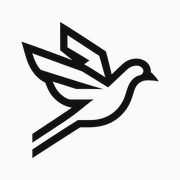
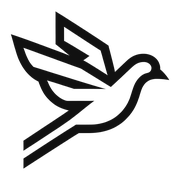
fix(seo): 品牌统一为 PigeonOJ 并补全多尺寸站点图标
- 站点标题/描述/OG/Twitter/JSON-LD/manifest 统一为 PigeonOJ，ARTOJ 保留为 alternateName
- favicon.ico 补 16/32/48/64/128/256 多帧，PNG 覆盖 16~512 多尺寸
- apple-touch-icon 由高清源重新生成

Changed region(s): [[0.0556, 0.0556, 0.9444, 0.9444], [0.4167, 0.4444, 0.5, 0.4722]]

diff --git a/src/frontend-next/index.html b/src/frontend-next/index.html
@@ -3,28 +3,35 @@
   <head>
     <meta charset="UTF-8" />
     <meta name="viewport" content="width=device-width, initial-scale=1.0" />
-    <title>ARTOJ · 在线编程与竞赛平台</title>
+    <title>PigeonOJ · 在线编程与竞赛平台</title>
     <meta
       name="description"
-      content="ARTOJ（PigeonOJ）是融合传统 OJ 与 AI 辅助的在线编程学习、训练与竞赛平台，提供题库、题单、ACM/IOI 比赛、团队协作与代码广场。"
+      content="PigeonOJ 是融合传统 OJ 与 AI 辅助的在线编程学习、训练与竞赛平台，提供题库、题单、ACM/IOI 比赛、团队协作与代码广场。"
     />
     <meta
       name="keywords"
-      content="ARTOJ,PigeonOJ,在线评测,Online Judge,OJ,编程竞赛,算法训练,题解,代码广场,C++,Python,Java"
+      content="PigeonOJ,ARTOJ,在线评测,Online Judge,OJ,编程竞赛,算法训练,题解,代码广场,C++,Python,Java"
     />
-    <meta name="author" content="ARTOJ" />
+    <meta name="author" content="PigeonOJ" />
     <meta name="robots" content="index,follow,max-image-preview:large" />
     <meta name="theme-color" content="#d9480f" />
     <link rel="canonical" href="https://www.youtro.top/" />
 
-    <link rel="icon" href="/favicon.ico" sizes="any" />
-    <link rel="icon" type="image/png" sizes="128x128" href="/brand/favicon.png" />
+    <link rel="icon" href="/favicon.ico" sizes="16x16 32x32 48x48 64x64" />
+    <link rel="icon" type="image/png" sizes="16x16" href="/brand/favicon-16.png" />
+    <link rel="icon" type="image/png" sizes="32x32" href="/brand/favicon-32.png" />
+    <link rel="icon" type="image/png" sizes="48x48" href="/brand/favicon-48.png" />
+    <link rel="icon" type="image/png" sizes="96x96" href="/brand/favicon-96.png" />
+    <link rel="icon" type="image/png" sizes="128x128" href="/brand/favicon-128.png" />
+    <link rel="icon" type="image/png" sizes="192x192" href="/brand/favicon-192.png" />
+    <link rel="icon" type="image/png" sizes="256x256" href="/brand/favicon-256.png" />
+    <link rel="icon" type="image/png" sizes="512x512" href="/brand/favicon-512.png" />
     <link rel="apple-touch-icon" sizes="180x180" href="/brand/apple-touch-icon.png" />
     <link rel="manifest" href="/site.webmanifest" />
 
     <meta property="og:type" content="website" />
-    <meta property="og:site_name" content="ARTOJ" />
-    <meta property="og:title" content="ARTOJ · 在线编程与竞赛平台" />
+    <meta property="og:site_name" content="PigeonOJ" />
+    <meta property="og:title" content="PigeonOJ · 在线编程与竞赛平台" />
     <meta
       property="og:description"
       content="融合传统 OJ 与 AI 辅助的在线编程学习、训练与竞赛平台：题库、题单、比赛、团队协作与代码广场。"
@@ -36,7 +43,7 @@
     <meta property="og:locale" content="zh_CN" />
 
     <meta name="twitter:card" content="summary_large_image" />
-    <meta name="twitter:title" content="ARTOJ · 在线编程与竞赛平台" />
+    <meta name="twitter:title" content="PigeonOJ · 在线编程与竞赛平台" />
     <meta
       name="twitter:description"
       content="融合传统 OJ 与 AI 辅助的在线编程学习、训练与竞赛平台。"
@@ -50,8 +57,8 @@
           {
             "@type": "Organization",
             "@id": "https://www.youtro.top/#organization",
-            "name": "ARTOJ",
-            "alternateName": "PigeonOJ",
+            "name": "PigeonOJ",
+            "alternateName": "ARTOJ",
             "url": "https://www.youtro.top/",
             "logo": {
               "@type": "ImageObject",
@@ -64,7 +71,7 @@
             "@type": "WebSite",
             "@id": "https://www.youtro.top/#website",
             "url": "https://www.youtro.top/",
-            "name": "ARTOJ",
+            "name": "PigeonOJ",
             "description": "融合传统 OJ 与 AI 辅助的在线编程学习、训练与竞赛平台。",
             "inLanguage": "zh-CN",
             "publisher": { "@id": "https://www.youtro.top/#organization" }
